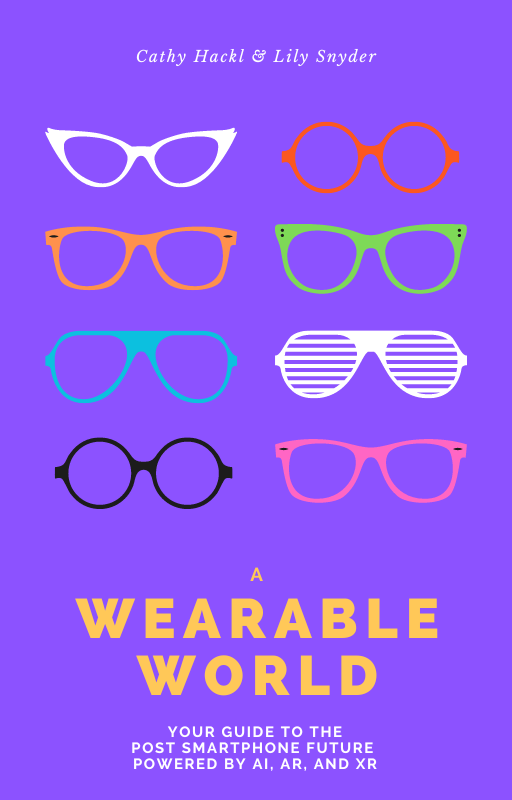
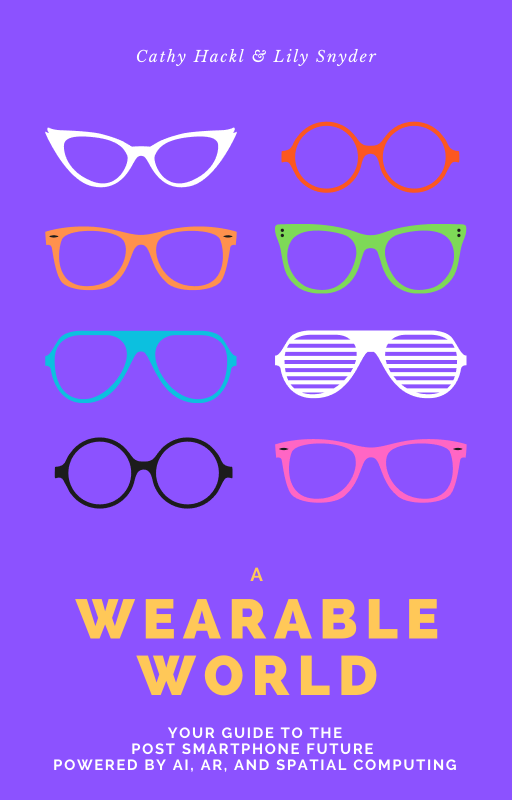
Changed Image Cover and Subtitle.

diff --git a/components/container/Container.jsx b/components/container/Container.jsx
@@ -18,7 +18,7 @@ export function Container () {
             </div>
             <div className={styles.buttonWrapper}>
               <h1 className={styles.heroHeading}>
-                A Wearable World: Your Guide to the Post-Smartphone Future Powered by AI, AR, and XR.
+                A Wearable World: Your Guide to the Post Smartphone Future powered by AI, AR, and Spatial Computing.
               </h1>
               <h3 className={styles.heroHeading}>
                 By Cathy Hackl & Lily Snyder
